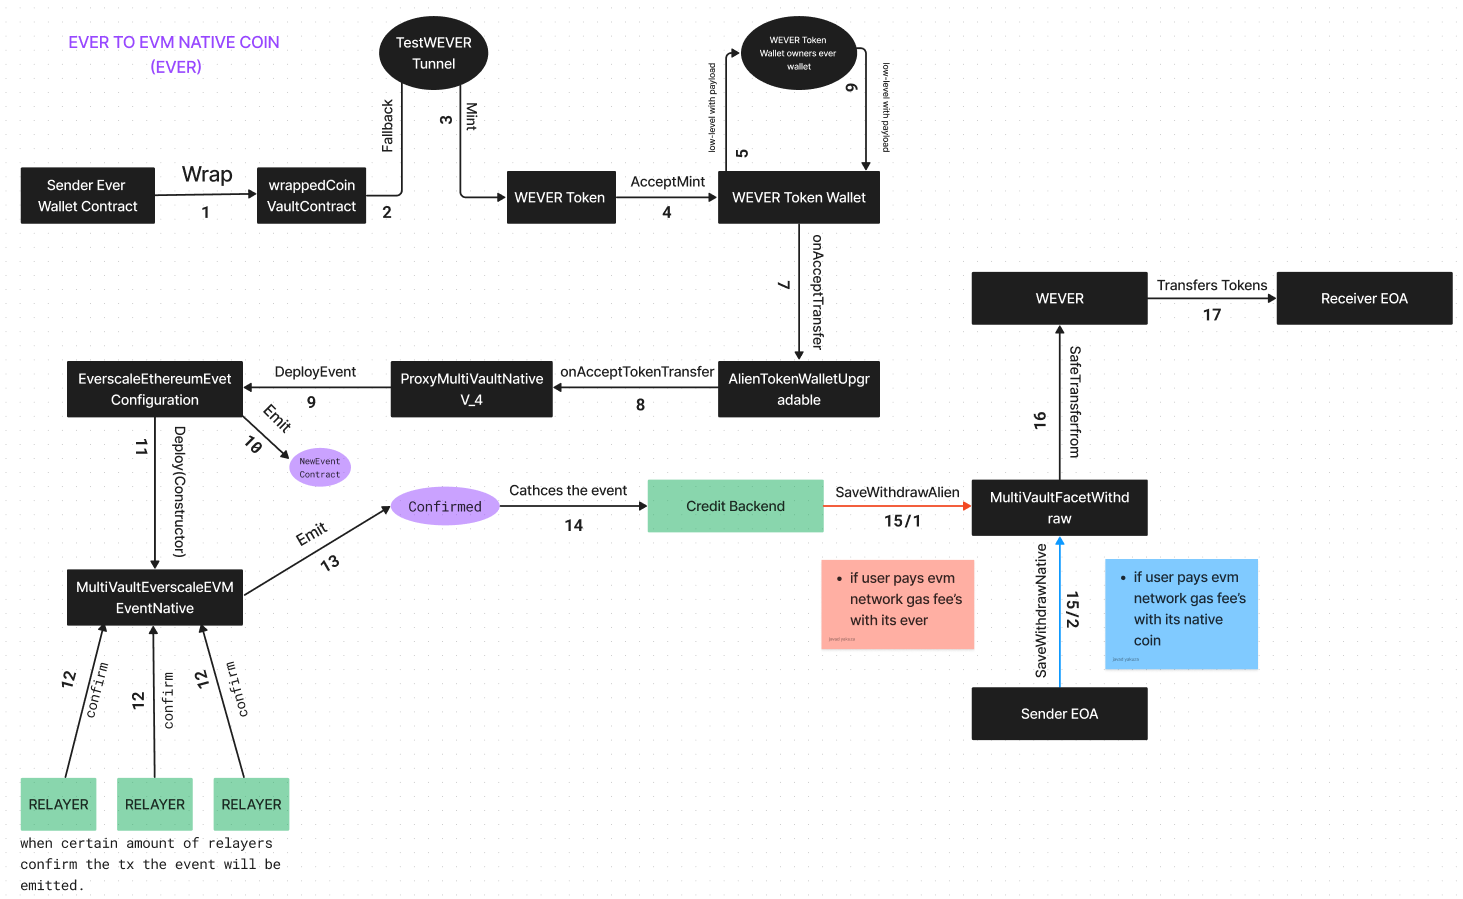
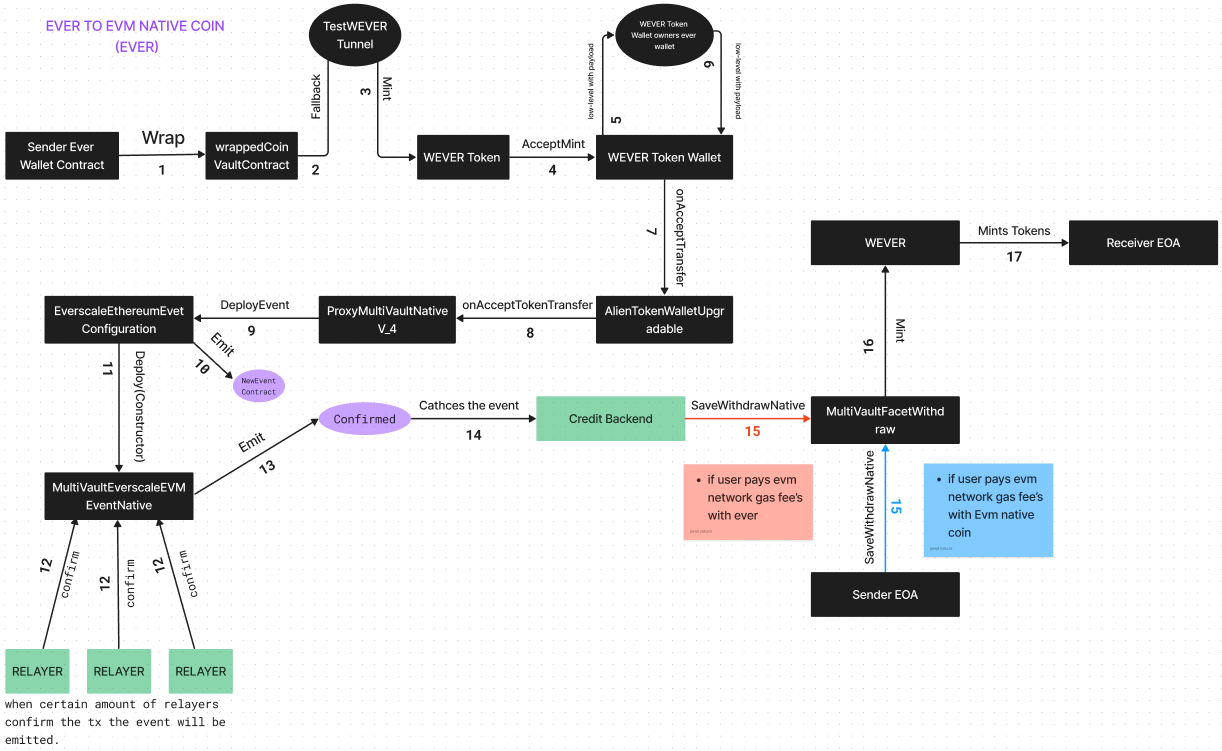
CONFIG

diff --git a/.vitepress/config.js b/.vitepress/config.js
@@ -49,19 +49,19 @@ module.exports = {
             collapsable: false,
             items: [
               {
-                text: 'Transfer Everscale Native Coin EVER',
+                text: 'Transfer Everscale Native Coin',
                 collapsable: false,
                 link: '/docs/Visual-Guide/EVER-TO-EVM/1.md',
               },
               {
-                text: 'Transfer Everscale Native Token BRIDGE',
+                text: 'Transfer Everscale Native Token',
                 collapsable: false,
                 link: '/docs/Visual-Guide/EVER-TO-EVM/2.md',
               },
               {
-                text: 'Transfer Everscale Alien Token USDT',
+                text: 'Transfer Everscale Alien Token',
                 collapsable: false,
-                link: '/docs/Visual-Guide/EVER-TO-EVM/1.md',
+                link: '/docs/Visual-Guide/EVER-TO-EVM/3.md',
               },
             ],
           },
@@ -70,12 +70,12 @@ module.exports = {
             collapsable: false,
             items: [
               {
-                text: 'Transfer Evm Native Coin BNB',
+                text: 'Transfer Evm Native Coin',
                 collapsable: false,
                 link: '/docs/Visual-Guide/EVM-TO-EVER/1.md',
               },
               {
-                text: 'Transfer Evm Alien Token USDT',
+                text: 'Transfer Evm Alien Token',
                 collapsable: false,
                 link: '/docs/Visual-Guide/EVM-TO-EVER/2.md',
               },

diff --git a/docs/Visual-Guide/EVER-TO-EVM/2.md b/docs/Visual-Guide/EVER-TO-EVM/2.md
@@ -1,3 +1,1 @@
-> # NOTE : TEMPORARY PICTURE !
-
-![EVER-TO-EVM-NATIVE-TOKEN-BRIDGE](./2%20-%20EVER-TO-EVM-NATIVE-TOKEN-BRIDGE.png)
+![EverToEvmNativeTokenBridge](./2%20-%20EVER-TO-EVM-NATIVE-TOKEN-BRIDGE.png)

diff --git a/docs/Visual-Guide/EVER-TO-EVM/1.md b/docs/Visual-Guide/EVER-TO-EVM/1.md
@@ -1,3 +1,1 @@
-> # NOTE : TEMPORARY PICTURE !
-
-![EVER-TO-EVM-NATIVE-COIN-EVER](./1%20-%20EVER-TO-EVM-NATIVE-COIN-EVER.png)
+![EverToEvmNativeCoin](./1%20-%20EVER-TO-EVM-NATIVE-COIN-EVER.png)

diff --git a/docs/Visual-Guide/EVER-TO-EVM/3.md b/docs/Visual-Guide/EVER-TO-EVM/3.md
@@ -1,3 +1,1 @@
-> # NOTE : TEMPORARY PICTURE !
-
-![EVER-TO-EVM-ALIEN-TOKEN-WBNB](./3%20-%20EVER-TO-EVM-ALIEN-TOKEN-WBNB.png)
+![EverToEvmAlienTokens](./3%20-%20EVER-TO-EVM-ALIEN-TOKEN.png)
